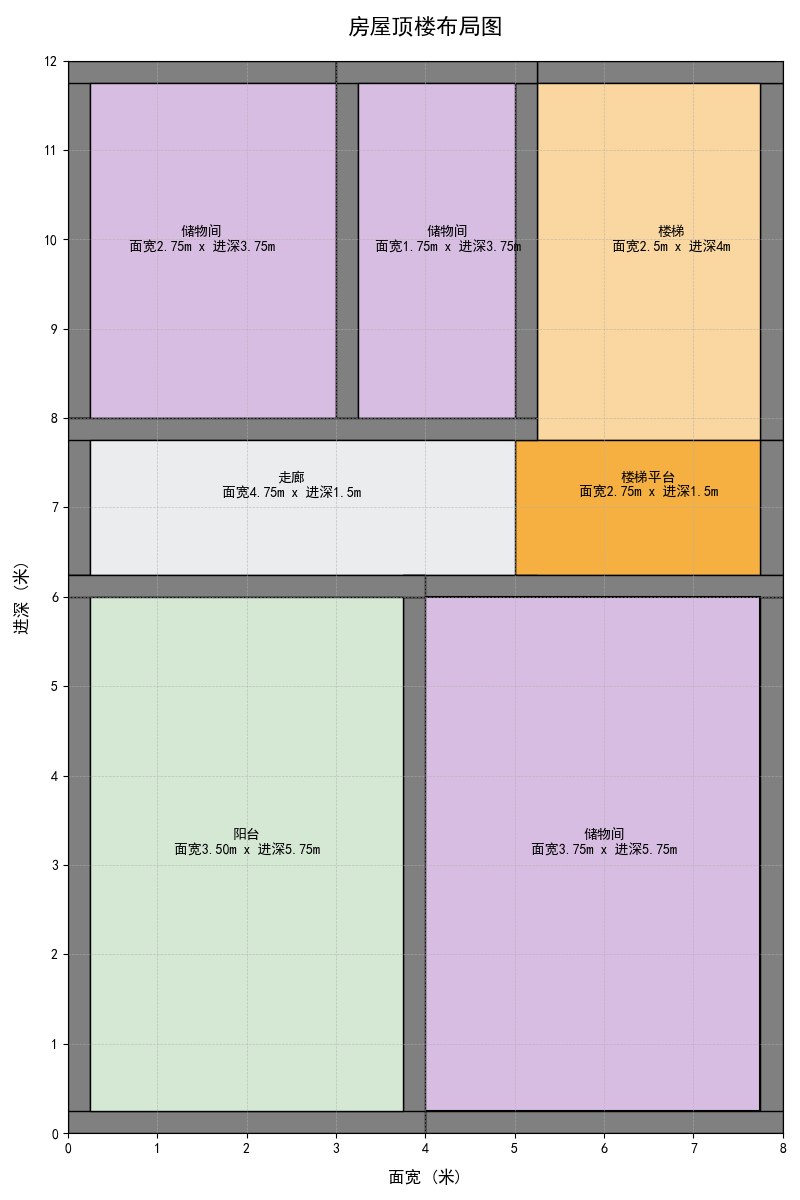
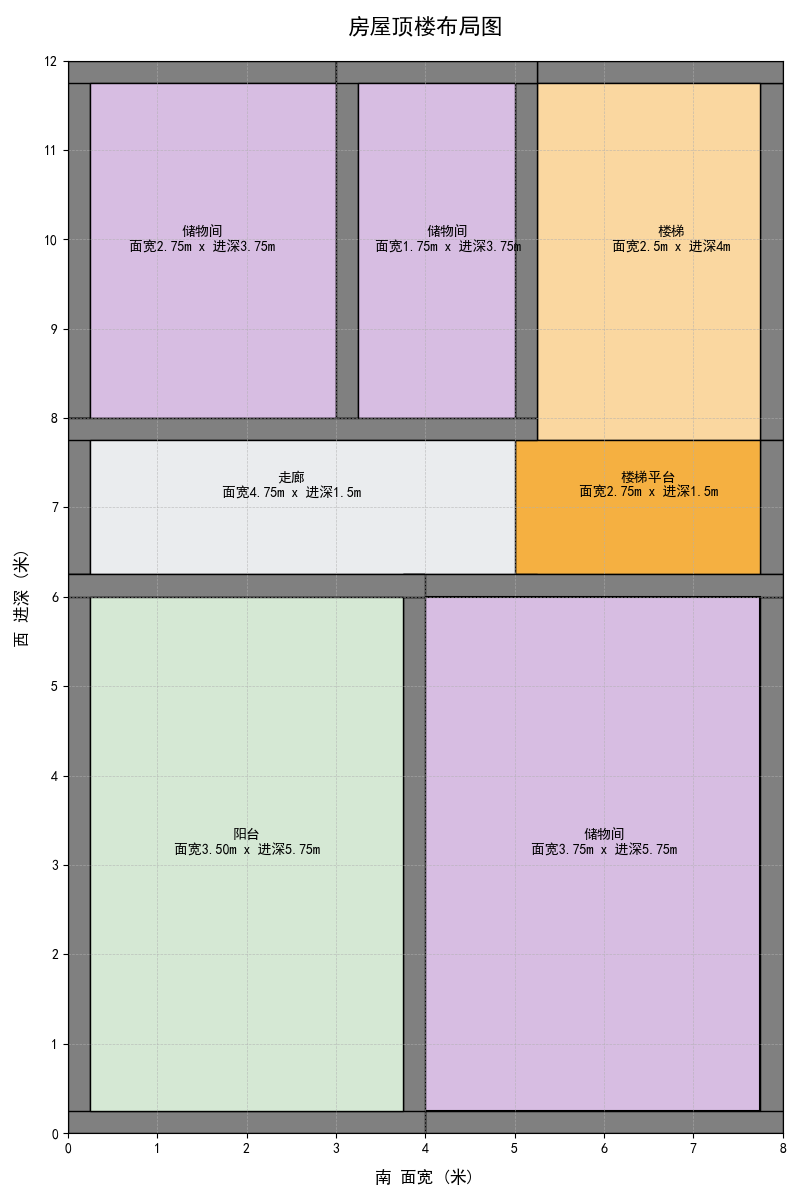
perf(floor_*): update

diff --git a/floor_2nd.py b/floor_2nd.py
@@ -139,8 +139,8 @@ ax.text(6.5, 5, f"卫生间\n{3 - 2 * wall_thickness:.2f}m x {2}m",
         ha='center', va='center', fontsize=10, color='black', fontweight='bold')
 
 # 显示坐标轴标签
-plt.xlabel("面宽 (米)", fontsize=12, labelpad=10)
-plt.ylabel("进深 (米)", fontsize=12, labelpad=10)
+plt.xlabel("南 面宽 (米)", fontsize=12, labelpad=10)
+plt.ylabel("西 进深 (米)", fontsize=12, labelpad=10)
 
 # 显示图形
 plt.tight_layout()

diff --git a/floor_3nd.py b/floor_3nd.py
@@ -139,8 +139,8 @@ ax.text(6.5, 5, f"卫生间\n{3 - 2 * wall_thickness:.2f}m x {2}m",
         ha='center', va='center', fontsize=10, color='black', fontweight='bold')
 
 # 显示坐标轴标签
-plt.xlabel("面宽 (米)", fontsize=12, labelpad=10)
-plt.ylabel("进深 (米)", fontsize=12, labelpad=10)
+plt.xlabel("南 面宽 (米)", fontsize=12, labelpad=10)
+plt.ylabel("西 进深 (米)", fontsize=12, labelpad=10)
 
 # 显示图形
 plt.tight_layout()

diff --git a/floor_3_5nd.py b/floor_3_5nd.py
@@ -138,8 +138,8 @@ ax.text(2, 3.25, f"阳台\n面宽{4 - 2 * wall_thickness:.2f}m x 进深{6.5 - wa
         ha='center', va='center', fontsize=10)
 
 # 显示坐标轴标签
-plt.xlabel("面宽 (米)", fontsize=12, labelpad=10)
-plt.ylabel("进深 (米)", fontsize=12, labelpad=10)
+plt.xlabel("南 面宽 (米)", fontsize=12, labelpad=10)
+plt.ylabel("西 进深 (米)", fontsize=12, labelpad=10)
 
 # # 添加图例
 # handles, labels = [], []

diff --git a/floor_1_5nd.py b/floor_1_5nd.py
@@ -128,8 +128,8 @@ ax.plot([door_x_start, door_x_start + door_length], [door_y_bottom, door_y_botto
         color='black', linewidth=4, label='大门')
 
 # 显示坐标轴标签
-plt.xlabel("面宽 (米)", fontsize=12)
-plt.ylabel("进深 (米)", fontsize=12)
+plt.xlabel("南 面宽 (米)", fontsize=12)
+plt.ylabel("西 进深 (米)", fontsize=12)
 
 # 校验面宽和进深
 assert ax.get_xlim() == (0, 8), "面宽应为8米"

diff --git a/floor_1nd.py b/floor_1nd.py
@@ -137,8 +137,8 @@ ax.plot([door_x_start, door_x_start + door_length], [door_y_bottom, door_y_botto
         color='black', linewidth=4, label='大门')
 
 # 显示坐标轴标签
-plt.xlabel("面宽 (米)", fontsize=12)
-plt.ylabel("进深 (米)", fontsize=12)
+plt.xlabel("南 面宽 (米)", fontsize=12)
+plt.ylabel("西 进深 (米)", fontsize=12)
 
 # 显示图形
 plt.tight_layout()
